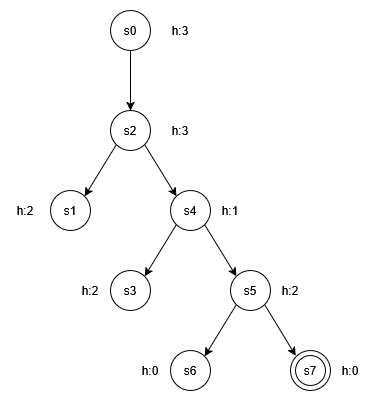
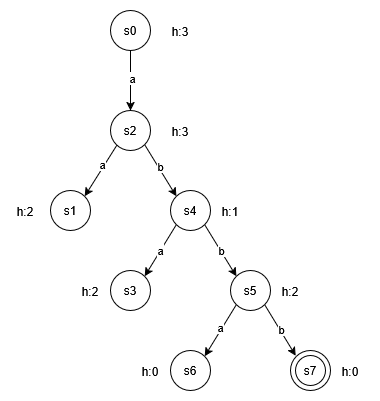
feat: t1/ejercicio7b listo. fix: 7c, 7d.

diff --git a/tareas/tarea1/respuestas/ejercicio7b.tex b/tareas/tarea1/respuestas/ejercicio7b.tex
@@ -1,0 +1,28 @@
+Dado que BFS es una busqueda no informada, se ignoran las heurísticas.\\
+Tenemos la siguiente pila:
+\begin{center}
+    \begin{tabular}{|c|c|c|}
+        \hline
+        Estado actual & Siguientes estados & Cerrados\\
+        \hline
+        $s_0$ & $s_2$ & $s_0$ \\
+        \hline
+        $s_2$ & $s_1, s_4$ & $s_0,s_2$ \\
+        \hline
+        $s_1$ & $s_4$ & $s_0,s_2,s_1$ \\
+        \hline
+        $s_4$ & $s_3, s_5$ & $s_0,s_2,s_1,s_4$ \\
+        \hline
+        $s_3$ & $s_5$ & $s_0,s_2,s_1,s_4,s_3$ \\
+        \hline
+        $s_5$ & $s_6, [s_7]$ & $s_0,s_2,s_1,s_4,s_3, s_5$ \\
+        \hline
+        $s_7$ & Estado final encontrado & $s_0,s_2,s_1,s_4,s_3, s_5, s_7$ \\
+        \hline
+    \end{tabular}
+\end{center}
+Se tiene el siguiente árbol:
+\begin{center}
+    \includegraphics[height = 10cm]{respuestas/img/treeE7b.png}
+\end{center}
+Por lo que el camino solución es $a,b,b,b$, conformado por los estados $s_0,s_2,s_4,s_5,s_7$.

diff --git a/tareas/tarea1/respuestas/ejercicio7c.tex b/tareas/tarea1/respuestas/ejercicio7c.tex
@@ -1,4 +1,4 @@
-Tenemos la siguiente pila:
+Tenemos la siguiente pila (cola de prioridad):
 \begin{center}
     \begin{tabular}{|c|c|c|}
         \hline
@@ -26,4 +26,4 @@ Se tiene el siguiente árbol:
 \begin{center}
     \includegraphics[height = 10cm]{respuestas/img/treeE7c.png}
 \end{center}
-Por lo que el camino solución es $a,b,b,a,a$, conformado por los estados $s_0,s_2,s_4,s_5,s_6,s_7$.
+Por lo que el camino solución es $a,b,b,b$, conformado por los estados $s_0,s_2,s_4,s_5,s_7$.

diff --git a/tareas/tarea1/tarea.tex b/tareas/tarea1/tarea.tex
@@ -171,6 +171,7 @@ Considerar la siguiente gráfica de un problema de búsqueda ($s_0$ es inicial y
     $h$ & $3$ & $2$ & $3$ & $2$ & $1$ & $2$ & $0$ & $0$
   \end{tabular}
 \end{center}
+\textbf{R: }\input{respuestas/ejercicio7b.tex}
 
 \begin{enumerate}
 \item[c)] Utilizar el algoritmo de Greedy Best First Search para calcular una solución al problema. Dibujar el árbol y la pila. \\

diff --git a/tareas/tarea1/respuestas/ejercicio7d.tex b/tareas/tarea1/respuestas/ejercicio7d.tex
@@ -1,4 +1,4 @@
-Tenemos la siguiente pila:
+Tenemos la siguiente pila (cola de prioridad):
 \begin{center}
     \begin{tabular}{|c|c|c|}
         \hline
